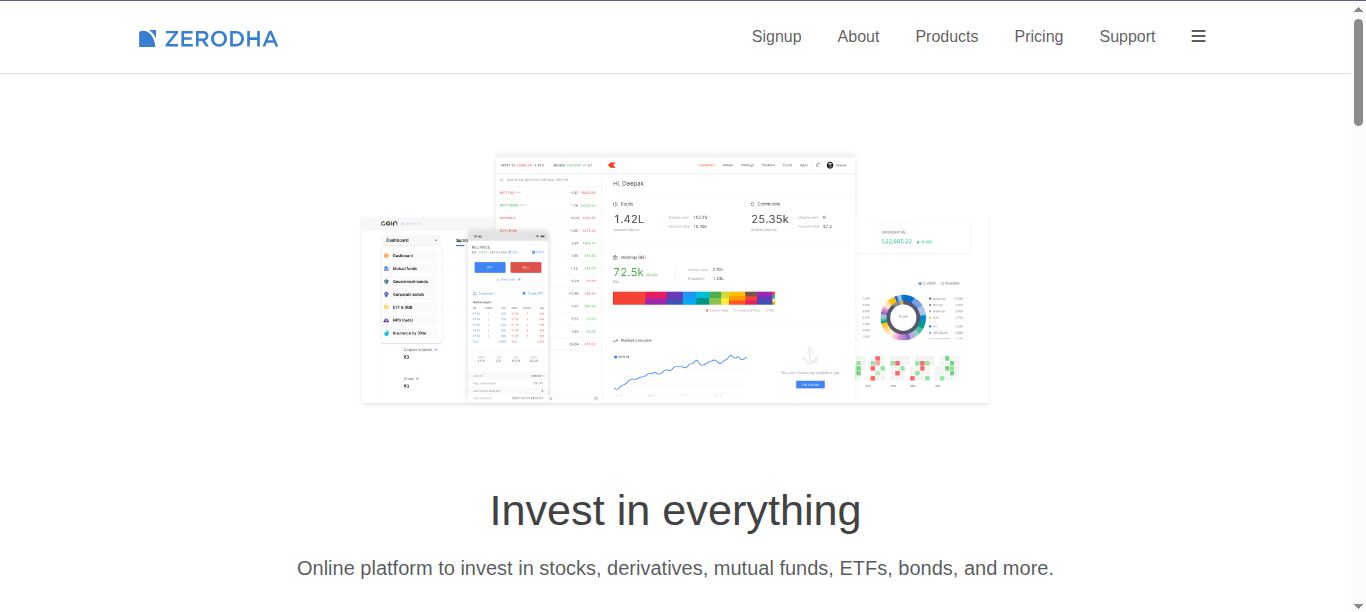
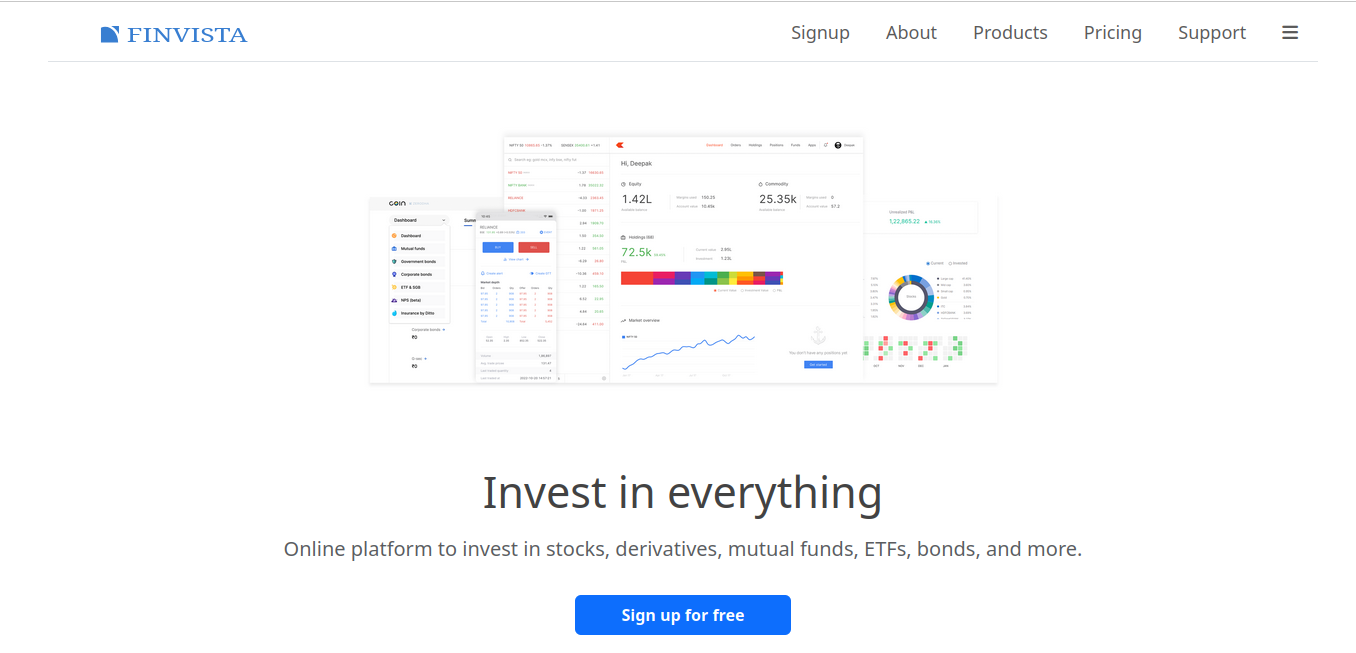
updating project information in README.md

diff --git a/src/landing_page/about/Teams.js b/src/landing_page/about/Teams.js
@@ -1,4 +1,8 @@
-import React from "react";
+/**
+ * @description Team.js
+ * 
+ *  This page contain all the information regarding the team
+ */
 
 const Teams = () => {
   return (
@@ -12,14 +16,7 @@ const Teams = () => {
             People
           </h3>
 
-          {/* <div className='col-6 d-flex flex-column align-items-center justify-content-center mt-5' style={{marginLeft : "15px"}}>
-                    <img src='media/images/nithinKamath.jpg' className='img-fluid rounded-circle float-right' style={{width : "50%"}} alt='ceo-image'/>
-                    <p className='mt-3' style={{fontWeight : "500", fontSize : "1.5rem", lineHeight : "1.3", letterSpacing : "1.2"}}>Nithin Kamath</p>
-                    <p className='text-muted' style={{fontSize : "17px", fontWeight : "500"}}>Founder, CEO</p>
-                </div> */}
-
           <div className="col-12 col-md-6 d-flex flex-column align-items-center justify-content-center mt-5">
-            {/* Removed float-right from image as it conflicts with flexbox centering */}
             <img
               src="media/images/nithinKamath.jpg"
               className="img-fluid rounded-circle"

diff --git a/src/landing_page/signup/VerifyMobile.js b/src/landing_page/signup/VerifyMobile.js
@@ -103,7 +103,7 @@ const VerifyMobile = () => {
       const idToken = await user.getIdToken();
 
       const response = await axios.post(
-        "http://localhost:5174/api/v1/user/register/verify-mobile",
+        `${process.env.REACT_APP_BACKEND_API}/user/register/verify-mobile`,
         {
           idToken,
         }

diff --git a/README.md b/README.md
@@ -1,61 +1,235 @@
 # FinVista 📈
 
-FinVista is a meticulously crafted landing page that emulates the sophisticated and clean user interface of leading financial technology (fintech) platforms. This project is a hands-on demonstration of my front-end development capabilities, focusing on building a high-fidelity, responsive, and dynamic user experience.
+FinVista is a meticulously crafted web application that emulates the sophisticated and clean user interface of leading financial technology (fintech) platforms. This project is a hands-on demonstration of my full-stack development capabilities, focusing on a multi-layered authentication flow, real-time data handling, and a high-fidelity, dynamic user experience.
 
 ![Project Banner](./public/assets/Banner_Zerodha.png)
 
 **Live Demo:** `<url>`
 
 
-## ✨ Features
+## Table of Contents
+-   **[Project Overview](#project-overview)**
+-   **[Key Features](#-key-features)**
+-   **[Authentication Flow](#-authentication-flow-a-detailed-walkthrough)**
+-   **[Tech Stack](#-tech-stack)**
+-   **[Project Structure](#-frontend-project-structure)**
+-   **[Getting Started](#getting-started)**
+-   **[Dashboard Repository](#dashboard-repository)**
+-   **[Backend Repository](#backend-repository)**
+-   **[⚠ Important Note](#-important-note-on-phone-authentication-testing)**
 
--   **User Authentication:** Secure login and logout functionality.
--   **Market Watchlist:** Real-time stock price updates for user-selected scrips.
--   **Responsive Design:** Fully responsive layout that works on all screen sizes, from mobile to desktop.
--   **Charting:** Interactive charts to analyze stock performance.
+### Project Overview  
 
-## Tech Stack
-___This project is built with a modern front-end stack:___  
+**FinVista** is a robust trading platform clone designed to simulate the core functionalities of a **real-world stock trading application**, with a strong emphasis on a **secure** and **multi-step user authentication process**. It provides users with a **comprehensive dashboard** to track a personalized watchlist and analyze stock performance through interactive charts. The project showcases my ability to architect a **complex user registration journey**, **integrate multiple services** *(Firebase and Redis)*, and manage a **full-stack application from development to deployment**.  
 
-### Frontend  
--   **ReactJS:** The entire page is built with React, leveraging its component-based architecture to create a modular and scalable codebase.  
--   **Bootstrap:** I utilized Bootstrap's powerful grid system and components to ensure the design is fully responsive and visually consistent across all devices.  
--   **JavaScript:** I used JavaScript for interactive elements and dynamic content, ensuring a smooth and engaging user experience.  
--   **Tailwindcss:** The page is styled with bootstrap css to achieve a polished, pixel-perfect look that mirrors industry-standard design. 
+### ✨ Key Features
 
-### Backend  
--   **NodeJS:** JavaScript runtime environment.
--   **ExpressJS:** A web application framework for Node.js.
--   **MongoDB:** A NoSQL database for storing data.
--   **Mongoose:** An ODM (Object Data Modeling) library for MongoDB and Node.js.
+-   **Multi-Step User Authentication:** _A highly secure and robust signup process that involves multiple verification steps to ensure user authenticity._  
+-   **Market Watchlist:** _Real-time stock price updates for user-selected scrips, powered by a dynamic data fetching mechanism._
+-   **Interactive Charting:** _Interactive charts to analyze stock performance, providing users with a detailed visual overview of market trends._  
 
-### 🚀 Getting Started
-Follow these instructions to get a copy of the project up and running on your local machine for development and testing purposes.  
+### 🔒 Authentication Flow: A Detailed Walkthrough  
 
-**Prerequisites**   
+The user signup process is a key feature of this project, designed to be both secure and user-friendly. The flow is a three-stage, two-factor authentication journey: 
 
-You need to have Node.js and npm installed on your machine.  
+1. **Phone Number Verification:**
+    - The user initiates the signup process by entering their phone number.
+    - A one-time password (OTP) is sent to the provided number via Firebase Authentication. This step immediately verifies the user's phone ownership.  
 
--   [Node JS](https://nodejs.org) **(which includes npm)**  
--   [MongoDB](https://www.mongodb.com/try/download/community) **(or a MongoDB Atlas account)**  
+2. **Email and Name Registration:**
+    - After successful phone verification, the user is prompted to enter their name and email address.
+    - A new OTP is sent to the registered email address for a second layer of authentication. This step ensures the email is valid and provides a secondary contact for the user.
 
-### Installation  
+3. **Password Creation & Account Finalization:**
+    - Once the email OTP is validated, the user is redirected to a final form to set a secure password.
+    - Upon setting the password, the user's account is successfully created. Their details are securely stored, and a user session is initiated.
 
-1. **Clone the repository:**
+![Authentication Flow](./public/assets/Authentication_Flow.png)
 
-    ```
-    git clone https://github.com/Afzal14786/Trading-Platform.git
-    cd your-repo-name
-    ```
-2. **Install Frontend Dependencies:** 
+### 💻 Tech Stack
 
-    > npm install  
+This project is built with a modern and comprehensive full-stack architecture:
 
-### Running the Application  
+**Frontend**
 
-    npm run dev
+-   **ReactJS :** The core of the application's user interface, leveraging a component-based architecture for modular, reusable, and scalable code.
+-   **Bootstrap :** Utilized for its powerful responsive grid system and pre-built components, ensuring a visually consistent and mobile-friendly design.
+-   **Tailwind CSS :** Used for advanced, utility-first styling to achieve a polished, pixel-perfect look that mirrors industry-standard designs.
+-   **JavaScript :** Powers all interactive elements and dynamic content, providing a smooth and engaging user experience.
 
-**_The React app will open in your browser at http://localhost:3000._**  
+**Backend**
 
-**Here Is The Dashboard Code:**  
-[Go To The Dashboard Repo](https://github.com/Afzal14786/trading-dashboard.git)
+-   **Node.js :** The JavaScript runtime environment that provides a scalable and high-performance backend.
+-   **Express.js :** A minimal and flexible Node.js web application framework used to build robust API endpoints and manage server-side logic.
+-   **MongoDB :** A powerful NoSQL database used for flexible and scalable data storage, including user profiles, watchlists, and other application data.
+-   **Mongoose :** An Object Data Modeling (ODM) library for MongoDB and Node.js, providing a straightforward way to interact with the database.
+-   **Firebase Authentication :** A highly secure and easy-to-use authentication service that handles the critical SMS and email OTP verification steps, ensuring a robust and reliable user sign-in process.
+-   **Redis DB :**  An in-memory data store used for caching and managing short-lived data, such as OTPs and temporary session tokens, significantly improving authentication speed and overall performance.  
+
+### 📂 Frontend Project Structure  
+
+📁 trading-platform
+├── 📁 node_modules
+├── 📁 public
+├── 📁 src
+│   ├── 📁 landing_page
+│   │   ├── 📁 about
+│   │   ├── 📁 AccountActive
+│   │   ├── 📁 home
+│   │   ├── 📁 pricing
+│   │   ├── 📁 products
+│   │   ├── 📁 signup
+│   ├── 📁 support
+│   │   ├── Footer.js
+│   │   ├── Navbar.js
+│   │   ├── OpenAccount.js
+│   │   ├── ScrollToTop.js
+│   │   ├── TitleSetter.js
+│   ├── firebase.js
+│   ├── index.css
+│   ├── index.js
+│   ├── Layout.js
+│   ├── NotFoundPage.js
+│   ├── reportWebVitals.js
+│   ├── setupTests.js
+├── .env
+├── .gitignore
+├── package.json
+├── package-lock.json
+└── README.md
+
+### 🚀 Getting Started 
+Follow the following lines for running the project locally.  
+
+1. **Clone The Repository**
+```
+https://github.com/Afzal14786/Trading-Platform.git
+cd Trading-Platform
+```
+
+2. **Install Dependencies**
+```
+npm install
+```
+
+3. **Set Up Environment Variables**
+Create a .env file in the root directory and add the necessary environment variables. Here's an example structure:
+```
+REACT_APP_FIREBASE_API_KEY=your_api_key
+REACT_APP_FIREBASE_AUTH_DOMAIN=your_auth_domain
+REACT_APP_FIREBASE_PROJECT_ID=your_project_id
+REACT_APP_FIREBASE_STORAGE_BUCKET=your_storage_bucket
+REACT_APP_FIREBASE_MESSAGING_SENDER_ID=your_sender_id
+REACT_APP_FIREBASE_APP_ID=your_app_id
+REACT_APP_BACKEND_URL=http://localhost:5000
+```
+> ⚠ Replace the values with your actual Firebase and backend credentials.
+
+4. **Start the Development Server**
+```
+npm run dev
+```
+
+### 🧩 Dashboard Repository  
+The **Dashboard Repository** contains the core authenticated user experience of the platform. Once users complete the multi-step signup and verification process on the FinVista landing page (this repository), the user redirected to the dashboard, where user can:
+-   Search Strocks and place order
+-   Manage their personal watchlist
+-   Access detailed analytics on selected stocks
+-   Navigate through a secure and responsive UI built specifically for active users  
+
+**📁 Repository Link:** _**[Dashboard Repository](https://github.com/Afzal14786/trading-dashboard.git)**_
+
+The dashboard is developed as a standalone **React application** to ensure **modularity** and **easier scaling** of features independently from the landing and onboarding flow.
+
+### 🛠 Backend Repository  
+The **Backend Repository** powers all server-side operations and API endpoints required by both the landing page and dashboard. It is responsible for:
+-   User authentication logic (phone/email OTP verification)
+-   User data management (profiles, sessions, passwords)
+-   Watchlist CRUD operations
+-   Integration with Firebase for authentication
+-   Use of Redis for caching OTPs and handling temporary session data
+-   MongoDB for persistent storage
+
+**📁 Repository Link:** _**[Backend Repository](https://github.com/Afzal14786/zerodha-backend.git)**_  
+
+The backend is built with **Node.js**, **Express.js**, **MongoDB**, **Firebase**, and **Redis**, forming a _robust_ and _scalable service layer_ for the **FinVista ecosystem**.  
+
+**** 
+
+### ⚠ Important Note on Phone Authentication Testing  
+
+This project implements **phone number authentication using Firebase** as part of its secure multi-step signup flow.  
+
+However, due to Firebase's requirement for a valid billing account (credit/debit card) to enable unrestricted phone authentication in live environments, **I am currently unable to offer real-time phone verification using random test numbers.**  
+
+To ensure you can still **test the phone authentication flow**, I’ve configured multiple test phone numbers within Firebase that simulate real OTP-based login. These numbers allow developers to experience the complete authentication process **without requiring a credit/debit card or real SMS delivery**.  
+
+> ⚠ **Important:**  
+> The phone numbers listed below are **randomly generated by an AI language model (ChatGPT)** for development purposes only.  
+> They are not owned or associated with me (the repository maintainer).  
+> These numbers are registered in Firebase as test credentials and will not trigger actual SMS or incur any cost.  
+
+
+**Use the following 📱numbers and OTPs for testing:**  
+
+| S.No | Phone Number     | OTP     | Status        |
+|------|------------------|---------|----------------|
+| 1    | +917012345678    | 111222  | ✅ Available   |
+| 2    | +919876543210    | 654321  | ✅ Available   |
+| 3    | +911234567890    | 995511  | ✅ Available   |
+| 4    | +918001122334    | 222333  | ✅ Available   |
+| 5    | +917890123456    | 333444  | ✅ Available   |
+| 6    | +916543219876    | 444555  | ✅ Available   |
+| 7    | +917700880099    | 555666  | ✅ Available   |
+| 8    | +918888777666    | 666777  | ✅ Available   |
+| 9    | +919999000111    | 777888  | ✅ Available   |
+| 10    | +919955118287    | 123456  | ❌ Used   |  
+
+### 📋 How to Use the Test Phone Authentication  
+To test the phone authentication feature in the signup flow, follow these steps:  
+
+1. **🚀 Go to the Signup Page**  
+Navigate to the signup page in your app.  
+
+2. **📱 Enter a Test Phone Number**  
+Enter any one of the available test phone numbers from the list above into the phone number input field.  
+
+3. **📩 Receive OTP Prompt**  
+You’ll see a message:  
+_“An OTP has been sent to your mobile number.”_  
+
+4. **🔢 Enter the Test OTP**  
+Instead of a real SMS, enter the corresponding OTP from the table above for the phone number you used.  
+
+5. **✅ OTP Verification & Navigation**  
+Once the OTP is verified, you’ll be automatically taken to the next step of the signup flow.  
+
+---
+
+### 🚨 Having Trouble Creating an Account?
+
+If all the test phone numbers are already registered and you're unable to create a new account, don’t worry — just **reach out to me directly** and I’ll help you out by clearing an existing test account so you can proceed.
+
+You can contact me via:
+
+- 📧 **Email :** [mdafzal14777@gmail.com](mailto:mdafzal14777@gmail.com)  
+- 📸 **Instagram :** [@afzal14786](https://instagram.com/afzal14786)
+
+---
+
+### ⭐ Like This Project?
+
+If you found this project helpful, informative, or fun to work with:
+
+- Give it a **🌟 star** on [GitHub](https://github.com/afzal14786)  
+- **Follow me** for more cool projects and updates:
+  - 🐙 [GitHub](https://github.com/afzal14786)
+  - 🔗 [LinkedIn](https://linkedin.com/afzal14786)
+  - 📸 [Instagram](https://instagram.com/afzal14786)
+  - 📘 [Facebook](https://facebook.com/afzal14786)
+  - 💼 [LinkedIn](https://www.linkedin.com/in/afzal14786)
+
+
+---
+
+Thank you for your support — Happy Coding! 🚀👨💻✨
